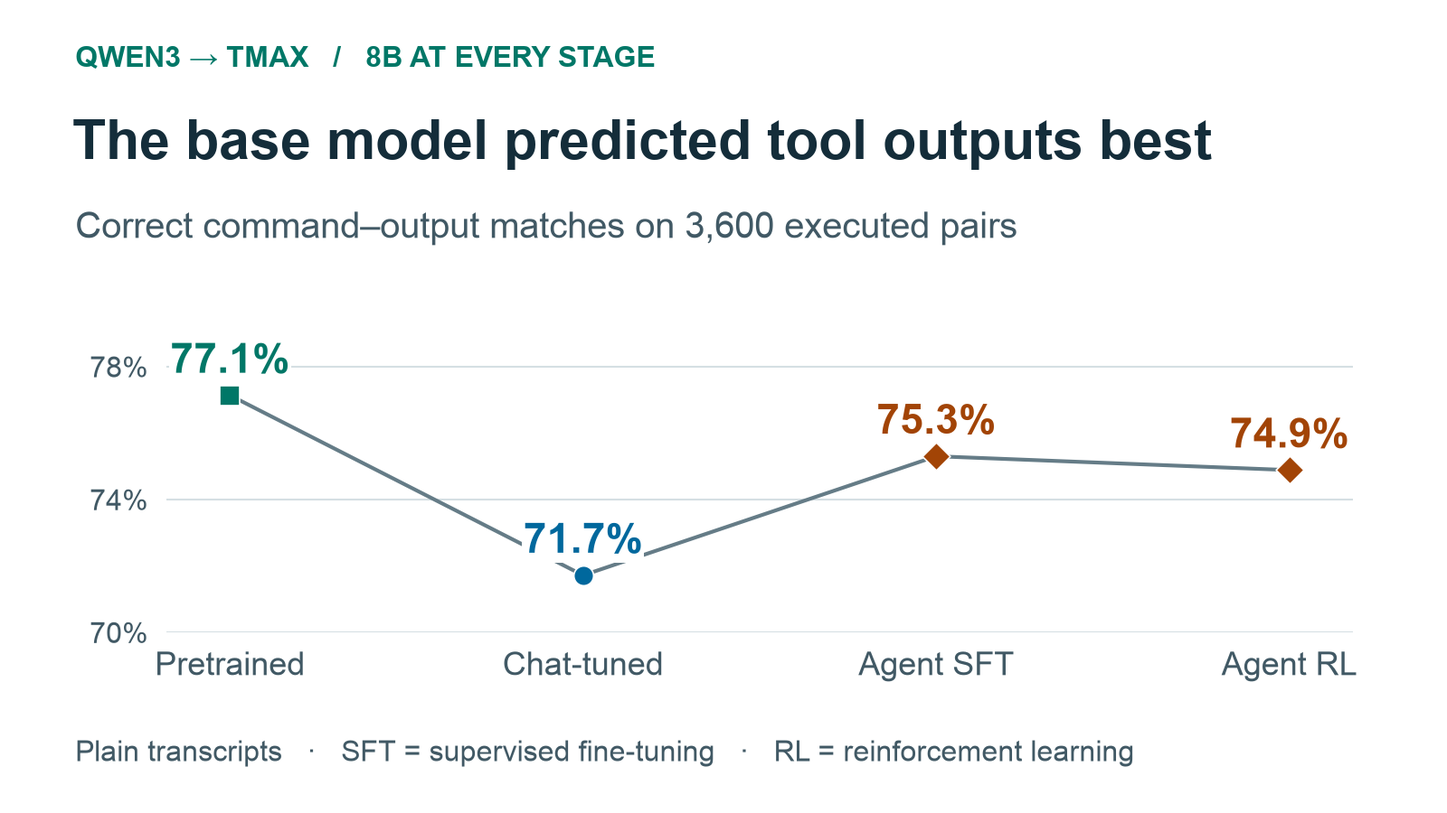
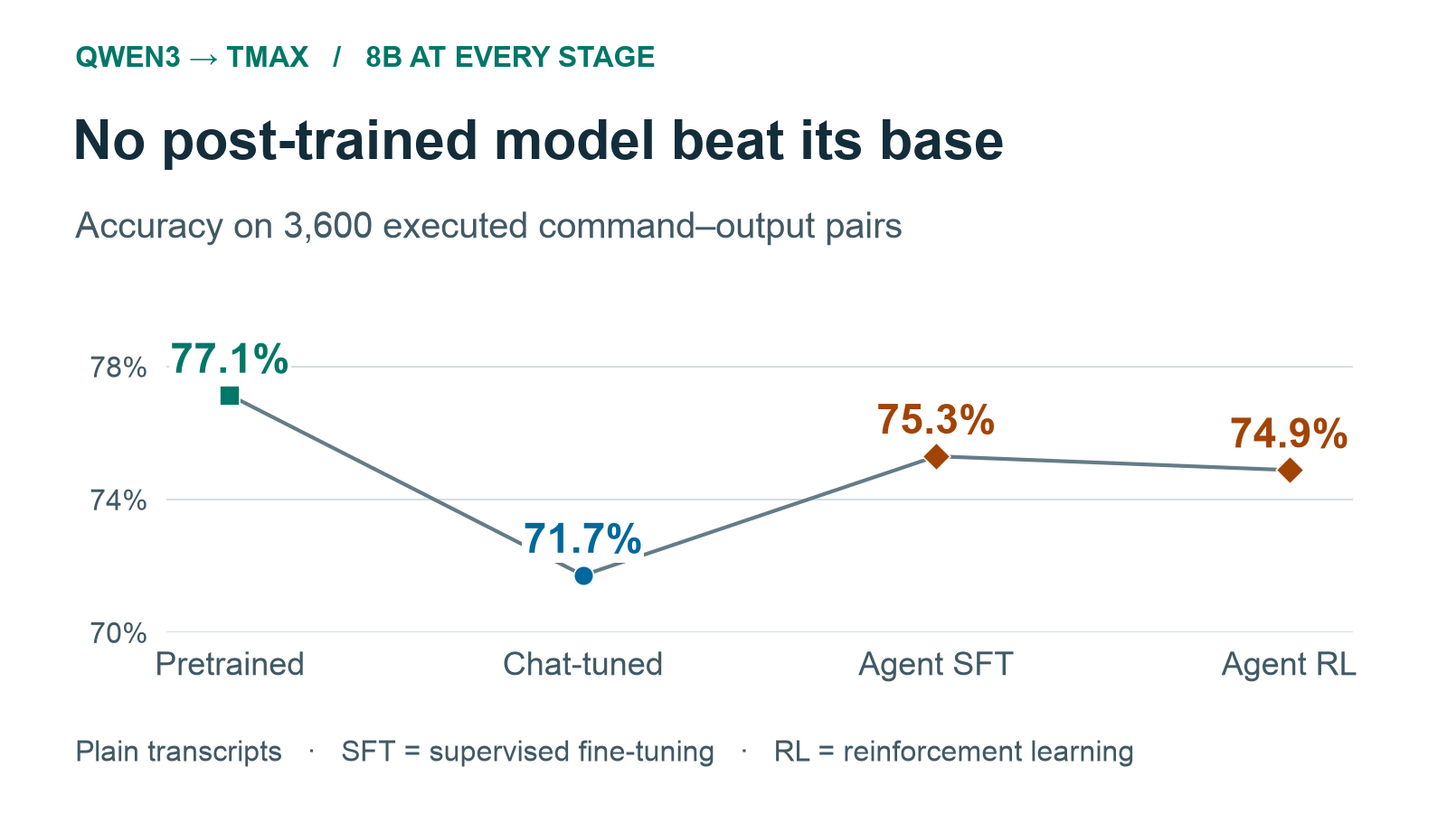
Publish the updated article, thread, cover figures and replication links

Changed region(s): [[0.0312, 0.1244, 0.8438, 0.2178], [0.0312, 0.2489, 0.6875, 0.3111]]

diff --git a/writeups/article/figures/make_cover.py b/writeups/article/figures/make_cover.py
@@ -1,0 +1,113 @@
+"""Run python writeups/article/figures/make_cover.py from the repository root."""
+
+from pathlib import Path
+
+import matplotlib
+matplotlib.use("Agg")
+import matplotlib.pyplot as plt
+import numpy as np
+from matplotlib.transforms import ScaledTranslation
+
+OUT = Path(__file__).resolve().parent
+INK = "#16252d"
+BLUE = "#1c618c"
+ORANGE = "#ad450b"
+DPI = 100
+
+# article/FACTS.md, experiment 1, plain sandbox transcripts. Accuracy in %.
+SIZE = np.array([0.6, 1.7, 4, 8, 14, 32])
+BASE = [63.6, 68.6, 75.7, 77.1, 78.4]
+INSTRUCT = [60.4, 64.6, 68.7, 71.7, 75.3, 79.3]
+# Each entry is (model, gain from same-size Instruct, horizontal dodge in px).
+# The dodge separates overlapping markers within a size group.
+AGENTS = {
+    8: [("Nemotron", 3.1, -16), ("tmax", 3.2, 0), ("tmax-sft", 3.6, 16),
+        ("SERA", 1.4, 0), ("Arctic", -0.2, 0)],
+    14: [("Nemotron", 3.4, 0), ("CodeScout", -0.2, -8), ("FrogMini", 0.6, 8)],
+    32: [("Nemotron", 2.9, 0), ("OpenThinkerAgent", -0.5, 0)],
+}
+
+
+def render(filename, width, height):
+    # Work in a 1600-wide design space, adjusting plot height for the card.
+    scale = width / 1600
+    h = height / scale
+    fig = plt.figure(figsize=(width / DPI, height / DPI), dpi=DPI, facecolor="white")
+
+    def pt(px):
+        return px * scale * 72 / DPI
+
+    def label(x, y, words, size, **options):
+        fig.text(x / 1600, 1 - y / h, words, fontsize=pt(size), va="top",
+                 color=options.pop("color", INK), **options)
+
+    def rule(y):
+        fig.add_artist(plt.Line2D([60 / 1600, 1540 / 1600], [1 - y / h] * 2,
+                                  transform=fig.transFigure, color=INK,
+                                  linewidth=pt(1.3), alpha=0.36))
+
+    label(57, 36, "Pretraining builds the world model", 56, weight="bold")
+    label(57, 103, "of tool outputs. Agentic post-training doesn't.", 56, weight="bold")
+    label(61, 195, "On the sandbox test, the strongest agent gains matched roughly one doubling in model size.", 29)
+    rule(257)
+    label(60, 283, "Commands matched to the correct output", 29, weight="bold")
+
+    label(848, 286, "◆", 24, color=ORANGE)
+    label(884, 286, "Agent fine-tunes", 24)
+    fig.add_artist(plt.Rectangle((1121 / 1600, 1 - 309 / h), 29 / 1600, 17 / h,
+                                 transform=fig.transFigure, color=BLUE, alpha=0.20, lw=0))
+    label(1161, 286, "Gain from doubling Instruct size", 23)
+
+    top, bottom = 334, h - 150
+    ax = fig.add_axes([130 / 1600, 1 - bottom / h, 1385 / 1600, (bottom - top) / h])
+    ax.set_xscale("log")
+    ax.set_xlim(0.55, 36)
+    ax.set_ylim(59, 84.2)
+    ax.spines[:].set_visible(False)
+    ax.minorticks_off()
+    ax.set_yticks([60, 70, 80], ["60%", "70%", "80%"])
+    ax.set_xticks(SIZE, [f"{s:g}B" for s in SIZE])
+    ax.tick_params(length=0, labelsize=pt(25), colors=INK, pad=pt(11))
+    for y in (60, 70, 80):
+        ax.axhline(y, color=INK, alpha=0.15, lw=pt(1), zorder=0)
+
+    # Band from Instruct at x to Instruct at 2x, interpolating in log size.
+    # It ends at 16B since the final measured Instruct checkpoint is 32B.
+    x = np.unique(np.r_[SIZE, SIZE / 2])
+    x = x[(x >= SIZE[0]) & (2 * x <= SIZE[-1])]
+
+    def instruct_at(s):
+        return np.interp(np.log(s), np.log(SIZE), INSTRUCT)
+
+    ax.fill_between(x, instruct_at(x), instruct_at(2 * x), color=BLUE,
+                    alpha=0.20, linewidth=0, zorder=1)
+    for sizes, values, color in [(SIZE[:-1], BASE, INK), (SIZE, INSTRUCT, BLUE)]:
+        ax.plot(sizes, values, color=color, solid_capstyle="round", lw=pt(5.5),
+                marker="o", markersize=pt(12), markeredgewidth=0, zorder=2)
+    for size, checkpoints in AGENTS.items():
+        for _, gain, offset in checkpoints:
+            shifted = ax.transData + ScaledTranslation(offset * scale / DPI, 0, fig.dpi_scale_trans)
+            ax.plot(size, instruct_at(size) + gain, transform=shifted, marker="D",
+                    markersize=pt(12), markerfacecolor=ORANGE, markeredgecolor="white",
+                    markeredgewidth=pt(1.4), zorder=4)
+
+    def chart_label(x, y, words, color):
+        ax.text(x, y, words, color=color, size=pt(27), weight="bold")
+
+    chart_label(2.15, 76.3, "Qwen3 Base", INK)
+    chart_label(2.65, 63.7, "Qwen3 Instruct", BLUE)
+    ax.annotate("14B agent tied its base", xy=(14, 78.7), xytext=(11.8, 82.4),
+                ha="right", va="center", fontsize=pt(25), color=ORANGE, weight="bold",
+                arrowprops=dict(arrowstyle="-", color=ORANGE, lw=pt(1.6),
+                                connectionstyle="angle,angleA=0,angleB=75,rad=0",
+                                shrinkA=pt(7), shrinkB=pt(10)))
+    label(800, bottom + 49, "Model parameters (log scale)", 24, ha="center")
+    rule(h - 63)
+    label(61, h - 45, "Qwen3 · 3,600 executed command/output pairs · 14 public agent fine-tunes", 24)
+    fig.savefig(OUT / filename, dpi=DPI, facecolor="white")
+    plt.close(fig)
+
+
+if __name__ == "__main__":
+    render("cover.png", 1600, 900)
+    render("cover_2x1.png", 1200, 600)

diff --git a/writeups/article/ARTICLE.md b/writeups/article/ARTICLE.md
@@ -1,26 +1,26 @@
-# Pretraining builds the tool-output world model that agent tuning uses
+# Pretraining builds the world model. Agent training doesn't.
 
-OpenAI’s Jakub Pachocki reports that base-model perplexity tracks capabilities as different as holding a conversation and doing original math. Wenhao Chai found a twist in terminal sessions. The models that predicted the terminal’s replies best tended to rank *lower* as agents, yet scoring selected commands predicted agent rank remarkably well.
+OpenAI’s Jakub Pachocki found that base-model perplexity tracks capabilities from conversation to math. Wenhao Chai found that the models best at predicting a terminal’s replies tended to rank lower as agents. So when does a coding agent learn what its tools will do?
 
-If perplexity tracks intelligence, can it tell us whether an agent understands its tools? We paused coding sessions just before the shell replied and compared models at different stages of training. **At 8B, the best forecast came from the model that had never been trained to be an agent.** Chat tuning cost it ground. Supervised agent training recovered some. Reinforcement learning raised the agent’s task score while leaving its forecasts about where they were.
+**No post-trained Qwen3 model we tested beat its own pretrained base at matching tool outputs to commands. That held at every size where we had both.** Chat tuning cost 3–7 percentage points. Agent training recovered some ground. Even Nemotron-14B, the strongest challenger, tied its base in plain text. Reinforcement learning raised one agent's reported task score from 11.5 to 17.7 and left its forecasts where they were. The teams reported roughly 2–8× higher success on agent benchmarks. Pretraining built the tool-output world model. Agent training taught the model how to act on it.
 
-![The pretrained 8B model matched 77.1% of command–output pairs. Chat tuning brought that down to 71.7%. Supervised terminal training recovered part of the drop.](figures/training-stages.png)
+![At 8B, the base matched 77.1% of output pairs. Chat tuning dropped accuracy to 71.7%. Both stages of agent training finished below base.](figures/training-stages.png)
 
 ## Which side of the terminal are you scoring?
 
 On November 22, 2026, Pachocki published base-model log-perplexity on a held-out snapshot of OpenAI’s internal code. The figures in his post put fluent conversation around 0.99, productive chain-of-thought reasoning around 0.91 and breakthrough math results around 0.76. Lower means the model assigned more probability to the text that actually came next. Pachocki also points out that using chain-of-thought can improve what a model achieves without lowering its base-model perplexity. [OpenAI’s “Perplexity and Intelligence”](https://openai.com/index/perplexity-and-intelligence/)
 
-Chai’s AgenticPPL takes advantage of a detail about agents. Suppose a directory listing reveals a filename and the agent uses it in the next command. Seeing the listing makes the filename easier to predict. Chai used a reference model to find command tokens like that. Scoring them gave a rank correlation of +0.79 on held-out models. Scoring the terminal’s own output ranked agents in the opposite direction (−0.37). [Wenhao Chai’s AgenticPPL](https://wenhaochai.com/blogs/agentic-ppl.html)
+Chai’s AgenticPPL inspired our test. Suppose a directory listing reveals a filename and the agent uses it in the next command. Seeing the listing makes the filename easier to predict. Chai used a reference model to find command tokens like that. Scoring them gave a rank correlation of +0.79 on held-out models. Scoring the terminal’s own output ranked agents in the opposite direction (−0.37). [Wenhao Chai’s AgenticPPL](https://wenhaochai.com/blogs/agentic-ppl.html)
 
-The filename example gave us a way to turn Chai’s question around. After seeing the listing, can the agent choose which file to open? Now pause *before* the listing appears. Given the preceding commands, can the model anticipate which files are there? That second ability is what we mean here by a tool-output world model.
+Now pause *before* that listing appears. Given the preceding commands, can the model anticipate which files are there? That ability to anticipate the reply is what we mean here by a tool-output world model.
 
 ## How much of perplexity is confidence?
 
 Pretraining rewards a model for putting probability on the next token. On our terminal sessions, the pretrained Qwen3 models did best at their default temperature of 1.0. The chat-tuned releases, which we call *instruct*, made overconfident bets. On separate calibration sessions, their best temperatures ranged from 1.2 to 1.8. Raising temperature spreads the bets out while preserving the model’s ranking of possible next tokens. That adjustment alone closed about half the gap between base and instruct.
 
-What gets counted matters, too. For the 8B base model, only about **35% of the bits of surprise** in terminal output came from what we counted as content. Random strings such as hashes and timestamps accounted for about 31%, and boilerplate from the test harness another 21%. Guessing an opaque hash can cost a model dearly even when it correctly anticipates the error message wrapped around it.
+For the 8B base model, only about **35% of the bits of surprise** in terminal output came from what we counted as content. Random strings such as hashes and timestamps accounted for about 31%, and boilerplate from the test harness another 21%. Guessing an opaque hash can cost a model dearly even when it correctly anticipates the error message wrapped around it.
 
-Consider NVIDIA’s Nemotron-Terminal at 8B. We kept the terminal’s native format and scored the content of the replies. On raw probabilities the specialist beat Qwen instruct. We then fitted each model’s temperature on separate sessions and scored the same replies again. **Instruct won.** Neither model had seen another training example. What changed was how heavily the score punished a confident miss.
+Consider NVIDIA’s Nemotron-Terminal at 8B. We kept the terminal’s native format and scored the content of the replies. On raw probabilities the specialist beat Qwen instruct. We then fitted each model’s temperature on separate sessions and scored the same replies again. **Instruct won.** What changed was the cost of a confident miss.
 
 ![On the same terminal content, recalibration cut Qwen instruct’s loss from 1.079 to 0.829 bits per token, enough to overtake Nemotron.](figures/recalibration.png)
 
@@ -28,9 +28,9 @@ Confidence also helps explain Chai’s command score. Across our 20 checkpoints,
 
 ## What the base model already knows
 
-We started with two kinds of recorded sessions. On ordinary terminal transcripts, we measured how many bits the model needed per byte of actual output. Across the pretrained Qwen3 checkpoints from 0.6B to 14B, that cost fell from 0.170 to 0.108. Every size step helped.
+We first measured how many bits each model needed per byte of recorded terminal output. Across the pretrained Qwen3 checkpoints from 0.6B to 14B, that cost fell from 0.170 to 0.108. Every size step helped.
 
-Then we replayed 150 successful software-engineering runs from five models on SWE-rebench. Here a tool might return a chunk of source code or the result of a test. We filtered out copied spans and boilerplate and recalibrated on separate tasks. The base models again improved at every size step, from 1.517 to 0.987 bits per content token. **Even the 32B instruct model, at 1.016, needed more bits than the 14B base.**
+Then we replayed 150 successful software-engineering runs from five models on SWE-rebench. Here a tool might return a chunk of source code or the result of a test. We filtered out copied spans and boilerplate and recalibrated on separate tasks. The base models again improved at every size step, from 1.517 to 0.987 bits per content token. **The 14B base predicted those replies better than 32B instruct, which still needed 1.016 bits per content token.**
 
 A repository can contain files the agent has never opened. The next word in one of those files makes an awkward test of whether a model understood the last command. So we built a sandbox where we could change one thing, run both versions and see exactly which answer went with which history.
 
@@ -38,19 +38,23 @@ A repository can contain files the agent has never opened. The next word in one 
 
 The answer is EVILO 5. Change the argument to “garden” and you get NEDRAG 6. Both answers look like this program’s output. We built 3,600 pairs in a shell and Python sandbox, changing either the command or an earlier state, and executed both versions. We scored whether the model assigned more probability to the two correct pairings together than to the crossed pairings. A general preference for one answer cancels out. We excluded copied words from the score. Chance is 50%.
 
-On these plain transcripts, pretrained accuracy climbed from 63.6% at 0.6B to 75.7% at 4B, then flattened toward 78.4% at 14B. The individual steps above 4B were too small to distinguish from noise. The 4B base was already neck and neck with 14B instruct at 75.3%. Across all three tests, the pretrained release beat the chat-tuned one at every size where we had both.
+We call the share of pairs matched correctly *binding accuracy*. On plain transcripts, pretrained accuracy climbed from 63.6% at 0.6B to 75.7% at 4B, then flattened toward 78.4% at 14B. The individual steps above 4B were too small to distinguish from noise. The 4B base was already neck and neck with 14B instruct at 75.3%. Across all three tests, the pretrained release beat the chat-tuned one at every size where we had both.
 
-![The plain sandbox shows both effects. Larger models generally match more pairs, and at each shared size the pretrained model leads its chat-tuned counterpart.](figures/scale.png)
+![The pretrained model led its chat-tuned counterpart at every shared size. A 4B base already matched 14B instruct.](figures/scale.png)
 
 ## How much does agent training buy back?
 
-Ai2’s TMax gives us a training sequence we can follow. On the plain sandbox, supervised fine-tuning on terminal examples took 8B instruct from 71.7% to 75.3%. If your starting point was the chat model, that bought you the accuracy of 14B instruct. If your starting point was the 8B base, at 77.1%, the specialist still had ground to make up.
+Ai2 published TMax both before and after reinforcement learning. Supervised training on terminal examples took 8B instruct from 71.7% to 75.3% in the plain sandbox. That caught up with 14B instruct. Before chat tuning, the 8B base already scored 77.1%.
 
-Across ten agent checkpoints, five gained roughly as much as one doubling in instruct-model size on this test. The other five showed no clear gain. None clearly beat an available same-size base. The closest call was Nemotron at 14B, whose point estimate was 0.3 percentage points above base, a statistical tie. Qwen did not release a 32B base for the largest comparison.
+Five of the ten agent checkpoints gained roughly as much over the chat model as doubling its size. The other five showed no clear gain. Even training on ordinary instruction following bought back some accuracy. Light-IF gained 1.5 points at 8B without any terminal-agent training.
 
-The gains were smaller in real repositories. Matching TMax’s supervised score on SWE tool replies would take an instruct model about 1.31 times its size, the best gain we saw. We got that multiplier by finding where the specialist’s loss landed between two sizes of instruct model.
+![TMax gained 3.6 points over 8B chat. The shaded band shows the typical gain from doubling a chat model’s size.](figures/gains.png)
 
-Then TMax underwent reinforcement learning. Its reported TB-Lite task score climbed from **11.5 to 17.7**. On the sandbox the change was −0.4 percentage points, indistinguishable from zero. On SWE replies the 1.31× advantage shrank to 1.04×. The same training step made a more successful working agent while giving us no measurable improvement in its forecasts.
+**Nemotron-Terminal-14B came closest to beating its base. It tied.** In plain transcripts it beat 14B instruct by 3.4 points. Against the pretrained 14B model, the difference was just +0.3 points (95% CI [−1.1, +1.9]). A small advantage in either direction fits the data. Qwen released no 32B base, so the larger specialist has no same-size base to beat.
+
+The gains were smaller on real repository work. After supervised training, TMax predicted tool replies about as well as a chat model 1.31 times its size. That was the largest gain. Reinforcement learning shrank it to 1.04× and changed sandbox accuracy by −0.4 points, within the uncertainty. Over that same reinforcement step, TMax’s reported TB-Lite task score climbed from **11.5 to 17.7**.
+
+How much did seeing the actual command help? On the repository logs we scored the same reply under the real command and under substitutes of the same kind. For replies acknowledging a file edit, the right command cut prediction loss by 34% for the 14B base. For the SERA-14B agent it cut loss by 18%. **The agent got about half as much information from the command on those edits.** The size of that drop depended on the kind of reply. Across all content, the command helped Nemotron-14B less than it helped its base. Two cautions: these substitutes were never executed, and this measure failed the size check we set in advance, so treat the percentages as an observation rather than a result. The sandbox remains the more direct test of what a command actually does.
 
 ## Ask in chat and the lead changes hands
 
@@ -58,7 +62,7 @@ Keep the files, commands and outputs fixed. Put the transcript in a chat message
 
 ![Both 8B terminal specialists led instruct in a plain transcript. When asked for exactly the same outputs in chat, both fell behind it.](figures/chat.png)
 
-TMax dropped from 75.3% to 63.5%. Nemotron dropped from 74.8% to 64.6%. Instruct slipped much less, from 71.7% to 69.8%, and finished ahead of both. The chat check covered three agent checkpoints. The third, Nemotron at 32B, was statistically level with its instruct counterpart. Even the direction of an apparent specialist advantage could depend on who the transcript asked the model to be.
+TMax dropped from 75.3% to 63.5%. Nemotron dropped from 74.8% to 64.6%. Instruct slipped much less, from 71.7% to 69.8%, and finished ahead of both. We tested three specialists in chat. The third, Nemotron-32B, tied its chat counterpart. Nemotron-14B was outside that check. Its tie with base belongs to plain transcripts alone.
 
 ## What the agent learned to write
 
@@ -68,6 +72,8 @@ On the original terminal sessions we could pause before any speaker’s turn. Gi
 
 That division of labor makes sense for a working agent. When a test fails, choosing the right diagnostic command is valuable even if the result surprises you. The shell supplies the result for free. Some training recipes make that distinction explicit. CodeScout, for instance, excluded tool replies from its training loss. Most labs disclose too little to say how much that mechanism explains across checkpoints.
 
-Our evidence comes from one model family. Within Qwen3, pretraining built the most reliable predictor of what the tools would say. Post-training taught the agent how to act on what came back. The open question is which training recipe can improve both.
+Our tests cover one model family, a shell and Python sandbox, and a sample of successful repository runs. On the plain sandbox, chat tuning cost 3–7 points of binding accuracy. The best agent recovered enough to tie. Across the full chain from base to chat to agent, we saw **no detectable gain beyond base** on that test. On edit replies, SERA got about half as much information from the command as its base.
 
-Try this in another family. Fork a real repository, change an earlier edit, and show each history to the model before running the same test in both copies. Score the first line that distinguishes the outcomes. Try it in plain text and in chat, then hide the edit and see whether the advantage disappears. **Can your agent beat its pretrained base when the answer depends on what changed?** Replicate with our code and data at [LINK]
+**In this family, the world model comes from pretraining. Agent training taught the agents to act on it. They finished more tasks without seeing further ahead.**
+
+Try it in another family. Fork a real repository, change an earlier edit, and run the same test in both copies. Give each model the two histories up to the test. Can it match the first line that differs to the edit that caused it? Try plain text and chat, then hide the edit and score again. Can your agent beat its base in both formats when it sees what changed? Code and data at https://github.com/bojieli/agentic-world-models

diff --git a/writeups/article/NOTES.md b/writeups/article/NOTES.md
@@ -2,21 +2,65 @@
 
 | Result used | Source and interpretation |
 |---|---|
-| November 22, 2026. Base-model log-perplexity around 0.99, 0.91 and 0.76. | The three figures and the associated conversation, reasoning and math observations come from Pachocki’s post. It identifies the held-out internal-code snapshot and gives chain-of-thought as an example of capability gains outside pretraining. [OpenAI primary source](https://openai.com/index/perplexity-and-intelligence/) |
+| November 22, 2026. Base-model log-perplexity around 0.99, 0.91 and 0.76. | The three figures and the associated conversation, reasoning and math observations come from Pachocki’s post. The addendum summarizes reporting on Pachocki’s post. The article paraphrases his examples. [OpenAI primary source](https://openai.com/index/perplexity-and-intelligence/) |
 | AgenticPPL +0.79 on held-out models. Terminal output −0.37. | Chai reports the first correlation on held-out models and trajectories. The second comes from the separate analysis by trajectory span. Signs follow Chai’s ranking convention. [AgenticPPL primary source](https://wenhaochai.com/blogs/agentic-ppl.html) |
 | One family, Qwen3. Sizes 0.6B, 1.7B, 4B, 8B, 14B and 32B. No 32B base. | Same-size base comparisons end at 14B. |
 | Base temperature 1.0, instruct 1.2–1.8. Recalibration closes about half the base–instruct terminal gap. | The temperature minimizing held-out loss measures calibration in these terminal sessions. |
 | About 35% content, 31% random strings and 21% harness boilerplate. | Rounded neutral-format shares of output loss specifically for Qwen3-8B-Base. See the rows CONTENT(novel output,non-rand), rand(all 3) and boiler. [Token-class aggregates](../../terminal/token_classes/neutral.md) |
-| Instruct raw 1.079, recalibrated 0.829. Nemotron raw 0.906, recalibrated 0.884 bits per content token. | For the figure, round the two model levels in the native / content / Nemo-8B vs Qwen3-8B rows, raw and T_obs_cal, to three decimal places. Each temperature was fitted on separate trajectories. [Native-format loss table, lines 367 and 379](../../terminal/size_equiv/tables.md) |
+| Instruct raw 1.079, recalibrated 0.829. Nemotron raw 0.906, recalibrated 0.884 bits per content token. | FACTS.md line 82 gives the direction. For the figure, round the two model levels in the native / content / Nemo-8B vs Qwen3-8B rows, raw and T_obs_cal, to three decimal places. Each temperature was fitted on separate trajectories. [Native-format loss table, lines 367 and 379](../../terminal/size_equiv/tables.md) |
 | 20 checkpoints, Spearman −0.77 with command-token entropy. At 8B, capped AgenticPPL −0.929 → −0.827, uncapped bits per selected span 1.81 → 3.22. | Higher AgenticPPL and lower entropy indicate sharper command predictions. The uncapped unit is mean total loss per selected command range. See picks → obsgain-easy → mean_range_bits_uncapped in the two records. [Base](../../agenticppl/results/m5/Qwen3-8B-Base.json) · [Instruct](../../agenticppl/results/m5/Qwen3-8B.json) |
 | Three prediction tests. Base terminal loss 0.170 → 0.108 bits/byte, 0.6B → 14B. Every base size step improves. | Ordinary terminal transcripts use neutral rendering. The native-format filtered-content comparison above answers a separate question. [Cross-test comparison by size](../REVIEW.md) |
-| 150 successful SWE-rebench runs from five models. Base 1.517 → 0.987 bits/content token, 0.6B → 14B. 32B instruct 1.016. | The score recalibrates content prediction using tasks held apart for calibration. [Run selection](../../swe/data/README.md) · [SWE size results](../../swe/results/size_equiv/size_equiv_swe.json) |
+| 150 successful SWE-rebench runs from five models. Base 1.517 → 0.987 bits/content token, 0.6B → 14B. 32B instruct 1.016. | The score recalibrates content prediction on a separate set of calibration tasks. [Run selection](../../swe/data/README.md) · [SWE size results](../../swe/results/size_equiv/size_equiv_swe.json) |
 | 3,600 sandbox pairs, two executed variants per pair, two possible assignments, 50% chance. EVILO 5 / NEDRAG 6. | For the example, read the last terminal reply from each executed branch of S2-0001, after “python calc.py olive” and “python calc.py garden” respectively. [Executed sandbox items](../../sandbox/items.jsonl.gz) |
-| Base plain sandbox curve 63.6, 68.6, 75.7, 77.1, 78.4%. Instruct curve 60.4, 64.6, 68.7, 71.7, 75.3, 79.3%. 4B base ≈ 14B instruct. | The individual 4B→8B and 8B→14B base steps both have paired intervals crossing zero. The scale chart includes both complete available ladders. |
-| 8B training-stage chart, 77.1 → 71.7 → 75.3 → 74.9%. Nemotron-8B scores 74.8% in plain text. | Computed from the primary pairs in the plain sandbox item files using the compact-file check. The connected stages in the cover chart follow the documented Qwen/TMax sequence. [Checkpoint lineage](../SWE_CONTROLS.md) |
-| Five of ten specialist checkpoints gain roughly one instruct-size doubling, five show no clear gain. Best available base comparison, Nemotron-14B +0.3 points. | Sizes are a ruler for the observed gains. At 32B the largest specialist runs beyond the measured instruct ladder. The 14B interval includes a tie with base. Nemotron comparisons use the size-matched instruct reference, as its exact starting release is undocumented. [Independent comparison](../REVIEW.md) |
+| Base plain sandbox curve 63.6, 68.6, 75.7, 77.1, 78.4%. Instruct curve 60.4, 64.6, 68.7, 71.7, 75.3, 79.3%. 4B base ≈ 14B instruct. | FACTS.md lines 13–14 and 89–90, in ascending size order. The individual 4B→8B and 8B→14B base steps both have paired intervals crossing zero. The scale chart includes both complete available ladders. |
+| 8B training-stage chart, 77.1 → 71.7 → 75.3 → 74.9%. Nemotron-8B scores 74.8% in plain text. | Computed from the primary pairs in the plain sandbox item files using the compact-file check. FACTS.md lines 16–18 give the corresponding differences. The connected stages in the cover chart follow the documented Qwen/TMax sequence. [Checkpoint lineage](../SWE_CONTROLS.md) |
+| Five of ten specialist checkpoints gain roughly one instruct-size doubling, five show no clear gain. Best available base comparison, Nemotron-14B +0.3 points. | The doubling compares scores on the plain sandbox with size-matched instruct. At 32B the largest specialist runs beyond the measured instruct ladder. The 14B interval includes a tie with base. Nemotron comparisons use the size-matched instruct reference, as its exact starting release is undocumented. [Independent comparison](../REVIEW.md) |
+| Chat tuning costs about 3–7 points of binding accuracy. | Subtract the instruct percentages from the base percentages at each shared size in  The smallest displayed gap is 3.1 points at 14B, the largest 7.0 at 4B. |
+| Strongest result against base, Nemotron-14B. Gain over chat +3.4 points. Gain over base +0.3 points, 95% CI [−1.1, +1.9]. | FACTS.md lines 15 and 21 supply the point comparisons. The stratified paired bootstrap below reproduces the interval in the brief from the underlying items. The independent review’s environment bootstrap also spans zero. [Sandbox item scores](../../sandbox/results/) · [Independent review, section 4](../REVIEW.md) |
+| Gains figure, supervised agents vs same-size chat, in points. TMax-8B +3.6, Nemotron-14B +3.4, Nemotron-8B +3.1, Nemotron-32B +2.9, SERA-8B +1.4, FrogMini-14B +0.6, OpenThinkerAgent-32B −0.5. Agents after RL. TMax-8B +3.2, Arctic-AWM-8B −0.2, CodeScout-14B −0.2. | Bars show point estimates. The shaded band of roughly 3–4 points reflects the instruct scale curve above 4B in line 13. The TMax RL bar includes the earlier supervised gain. |
+| Gains figure, comparison models vs chat. Light-IF-14B +1.7, Light-IF-8B +1.5, WebWorld-8B −0.1, Klear-8B −3.5. Klear vs base −8.9. | Klear’s documented parent is the pretrained 8B model. |
+| Reported benchmark success rose roughly 2–8×. | These are within-team comparisons. TMax’s TB-Lite ratio is 17.7/7.3 and Nemotron-32B’s Terminal-Bench ratio is 27.4/3.4. Each ratio uses its own benchmark and harness. |
+| Information gain on SWE file-edit acknowledgments, 14B base 34%, SERA-14B 18%, or about 0.5× base. Across all scored content the real command also helps Nemotron-14B less than its base. | In the M2 relative-gain table, gain is the fractional reduction in output loss under the real command relative to a same-kind substitution. For edit acknowledgments, base = 0.3408 and SERA = 0.3245 − 0.1490 = 0.1755. Their ratio is 0.515. For all content, the Nemotron-14B difference vs base is −0.0306. The half-size *model equivalents* elsewhere in the table are a separate statistic. [SWE M2 results, sections content/all and content/kind=edit_ack](../../swe/results/size_equiv/size_equiv_swe.md) |
 | TMax on SWE, 1.31× after supervised training and 1.04× after RL. TB-Lite 11.5 → 17.7. Sandbox RL increment −0.4 points. | The two multipliers give the instruct-model size matching each TMax score, interpolated in log parameter count. The task scores are from the same team’s benchmark. The sandbox RL interval spans zero. |
 | Chat check, three agent checkpoints. At 8B, instruct 71.7 → 69.8%, Nemotron 74.8 → 64.6%, TMax SFT 75.3 → 63.5%. At 32B, Nemotron is level with instruct within uncertainty. | The three specialists are two 8B models and one 32B model, in addition to the instruct references. |
 | Nemotron-8B versus instruct, +0.77 on thoughts, +0.26 on commands, −0.36 on output. | These are changes in mean log probability in bits per token on the recorded histories. Positive means the recorded tokens became more likely. [Per-role measurements](../../terminal/results/logratio.csv) |
 
-From the repository root, run `python sandbox/check_binding.py` to recover the sandbox percentages and point differences from the compact file. [Measurements](FACTS.md) · [Original checkpoints and scores](../../sandbox/results)
+From the repository root, run `python sandbox/check_binding.py` to recover the sandbox percentages and point differences. Run the interval calculation below from `writeups/article/`.
+
+### Reproduce the 14B tie
+
+This paired 95% basic bootstrap keeps the benchmark’s four strata equally represented. Within each stratum it resamples the same environments for both models. The original difference is +0.333 points. Reflecting the bootstrap quantiles around that difference yields [−1.139, +1.889] points. The original analysis also reports a joint environment bootstrap with slightly different endpoints and the same verdict. [Plain binding results](../../sandbox/results/size_equiv/size_equiv_plain_nocopy_T1.md)
+
+```python
+import csv
+import gzip
+from pathlib import Path
+
+import numpy as np
+
+strata = ("S2", "S3", "S2h", "S3h")
+archive = Path("../../sandbox/results/binding.csv.gz")
+
+def scores(model):
+    with gzip.open(archive, "rt", newline="") as stream:
+        rows = {(r["stratum"], r["item_id"]): float(r["T1/nocopy/bind"])
+                for r in csv.DictReader(stream) if r["model"] == model
+                and r["render"] == "plain" and r["stratum"] in strata}
+    assert len(rows) == 3600
+    return rows
+
+base = scores("Qwen3-14B-Base")
+agent = scores("Nemotron-Terminal-14B")
+assert base.keys() == agent.keys()
+rng = np.random.default_rng(0)
+draws = np.zeros(2000)
+for stratum in strata:
+    keys = sorted(key for key in base if key[0] == stratum)
+    diffs = np.array([agent[key] - base[key] for key in keys])
+    draws += rng.choice(diffs, (len(draws), len(keys))).sum(axis=1)
+
+points = 100 / len(base)
+observed = points * sum(agent[key] - base[key] for key in base)
+interval = 2 * observed - np.percentile(points * draws, [97.5, 2.5])
+print(observed, interval)
+```

diff --git a/writeups/article/THREAD.md b/writeups/article/THREAD.md
@@ -2,36 +2,36 @@
 
 ## Post 1 · Attach figures/training-stages.png
 
-OpenAI found that base-model perplexity tracks capability. Wenhao Chai found that scoring terminal replies ranked agents backwards. So when does an agent learn to predict its tools? In our 8B tests, the best forecasts came before chat or agent training.
+Pretraining builds the world model. Agent training doesn't. On our tool-output test, no post-trained Qwen3 model beat its own pretrained base at any size where we had both. Chat tuning cost 3–7 points. The best agent recovered enough to tie.
 
-## Post 2 · Text only
+## Post 2 · Attach figures/pair.png
 
-Chai’s AgenticPPL scores commands that earlier output helps explain. It predicted held-out agent rank (ρ = +0.79). Across our 20 checkpoints it also tracked command confidence. Reading a filename and using it is a different skill from predicting which files a listing will show.
+Which command printed EVILO 5? We ran the same script with “olive” and “garden.” Both outputs looked plausible. Only one assignment was right. Across 3,600 such pairs, matching the outputs to their histories let us test what the model expected the shell to do.
 
 ## Post 3 · Attach figures/recalibration.png
 
-Only ~35% of the 8B base model’s surprise on terminal replies came from content. Even on content alone, raw perplexity favored Nemotron-8B over instruct in native format. Fit each model’s confidence on separate sessions and the verdict flips. Same models, same text.
+OpenAI tracked capabilities with base-model perplexity. Wenhao Chai’s AgenticPPL predicted agent rank by scoring commands. Tool replies are a different test. Raw scores favored Nemotron-8B on terminal content. Adjust for confidence and the chat model won on the very same text.
 
-## Post 4 · Attach figures/pair.png
+## Post 4 · Attach figures/scale.png
 
-We changed a command or an earlier file state and executed both versions. Could the model match each output to the history that produced it? On 3,600 pairs, the 4B pretrained model matched 75.7% in plain text, level with 14B instruct at 75.3%.
+A 4B pretrained model matched 75.7% of output pairs, about level with 14B chat at 75.3%. On real software-engineering runs, even the 14B base predicted tool replies better than 32B chat. The base sandbox gains got smaller above 4B.
 
-## Post 5 · Attach figures/scale.png
+## Post 5 · Attach figures/gains.png
 
-Base beat same-size instruct on terminal logs, software-engineering runs and the plain sandbox. The base sandbox curve flattened above 4B. On real repository replies, even 14B base beat 32B instruct after recalibration.
+Five of ten agent checkpoints gained about one size doubling over chat in plain text. The closest to beating base was Nemotron-14B. It beat 14B chat by 3.4 points, but tied 14B base (+0.3 points, 95% CI [−1.1, +1.9]). Qwen released no 32B base.
 
-## Post 6 · Text only
+## Post 6 · Attach figures/chat.png
 
-Five of ten agent checkpoints gained about one size doubling over instruct on the plain sandbox. None clearly beat an available same-size base. TMax’s RL step lifted TB-Lite from 11.5 to 17.7. Its sandbox forecast changed by −0.4 points, within noise.
+The 14B tie came from plain transcripts only. We tested three specialists in chat. At 8B, chat scored 69.8% on the same pairs, ahead of Nemotron at 64.6% and TMax at 63.5%. Nemotron-32B tied chat. Nemotron-14B wasn’t in that check.
 
-## Post 7 · Attach figures/chat.png
+## Post 7 · Text only
 
-The 8B specialists led instruct in plain text. Ask for the same answers in chat and instruct wins at 69.8%, ahead of Nemotron at 64.6% and TMax SFT at 63.5%. We checked three agent checkpoints in chat. The third, 32B Nemotron, tied instruct.
+How much does the command tell the model? On real replies acknowledging file edits, showing the right command instead of a substitute cut loss by 34% for the 14B base and 18% for SERA-14B. The agent got about half as much help from the command on those replies.
 
 ## Post 8 · Attach figures/roles.png
 
-On identical terminal histories, Nemotron-8B put more probability on the recorded thoughts and commands than instruct did. It put less on the shell’s replies. Pretraining built a predictor that agent training taught to act. That’s our read of one family, Qwen3.
+Nemotron-8B put more probability on the recorded agent’s thoughts and commands and less on the terminal’s replies. TMax told a similar story in action. Reinforcement learning took TB-Lite from 11.5 to 17.7 while its sandbox accuracy moved by −0.4 points, within noise.
 
 ## Post 9 · Text only
 
-Try it on your agent. Fork a repo, change an earlier edit and run the same test in both copies. Can the agent match each result to its history better than its pretrained base? Try plain text and chat. Then hide the edit. Code and data at [LINK]
+In Qwen3, pretraining built the tool-output world model. Agent training taught the model to act on it. Task success rose 2–8×. The best agent tied its base on output matching. Try the paired test in another family. Code and data at https://github.com/bojieli/agentic-world-models

diff --git a/README.md b/README.md
@@ -148,7 +148,7 @@ python agenticppl/m5_table.py agenticppl/runs
 
 To rebuild the synthetic pairs, run `sandbox/rebuild.sh`. It creates the original batch, the hard strata and the deduplicated extension under `sandbox/runs/items/`. For the secondary SWE-smith and OpenHands builds, use `python swe/data/fetch.py --all` followed by `python swe/data/build.py`.
 
-**Release contents and limits.** The compact sandbox CSV retains full-precision binding, interaction bits/byte and per-item information gain for both T=1 masks. Three full chat JSONL files and all checkpoint summaries preserve examples of the richer scorer output. For most models fresh forward passes are needed for alternative temperatures, strict masks, per-item nulls and token-level analyses. SWE bootstrap intervals and paired AgenticPPL range intervals require regenerated intermediates. The terminal size-equivalence supplement includes the analysis and original results, but the original pilot class-label arrays are unavailable here. The article figures are distributed as PNGs. Exact weight revisions, an immutable container image and original plot-generation scripts were unavailable for the release. This repository evaluates published weights and does not contain model training runs or live benchmark evaluations.
+**Release contents and limits.** The compact sandbox CSV retains full-precision binding, interaction bits/byte and per-item information gain for both T=1 masks. Three full chat JSONL files and all checkpoint summaries preserve examples of the richer scorer output. For most models fresh forward passes are needed for alternative temperatures, strict masks, per-item nulls and token-level analyses. SWE bootstrap intervals and paired AgenticPPL range intervals require regenerated intermediates. The terminal size-equivalence supplement includes the analysis and original results, but the original pilot class-label arrays are unavailable here. The article figures are distributed as PNGs. The cover generator is included and runs with NumPy and Matplotlib. The original plotting code for the other figures, exact weight revisions and an immutable container image were unavailable for the release. This repository evaluates published weights and does not contain model training runs or live benchmark evaluations.
 
 ## Credits, licenses and citation
 
